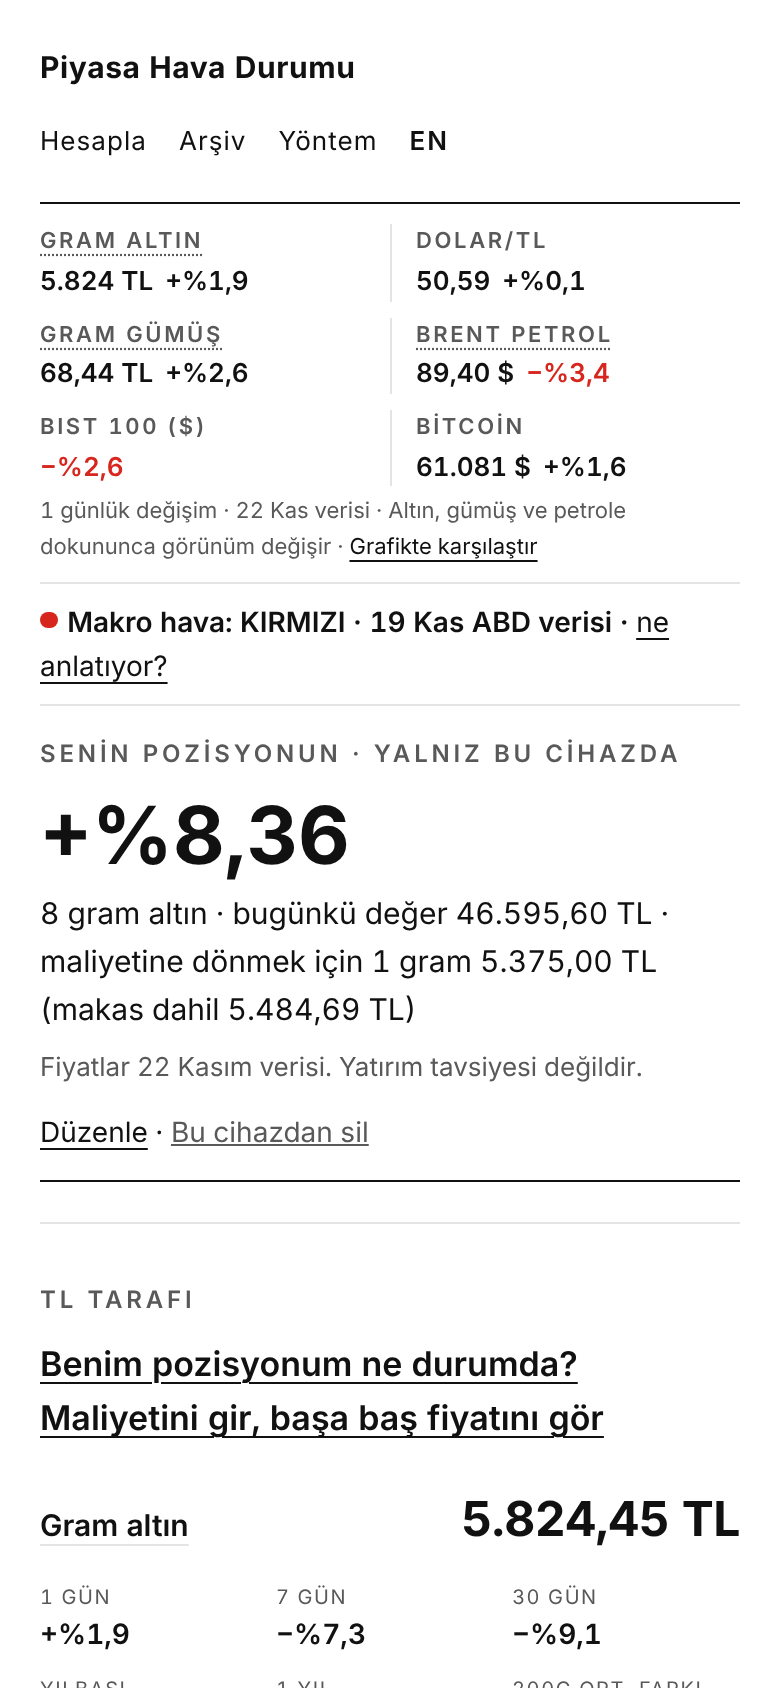
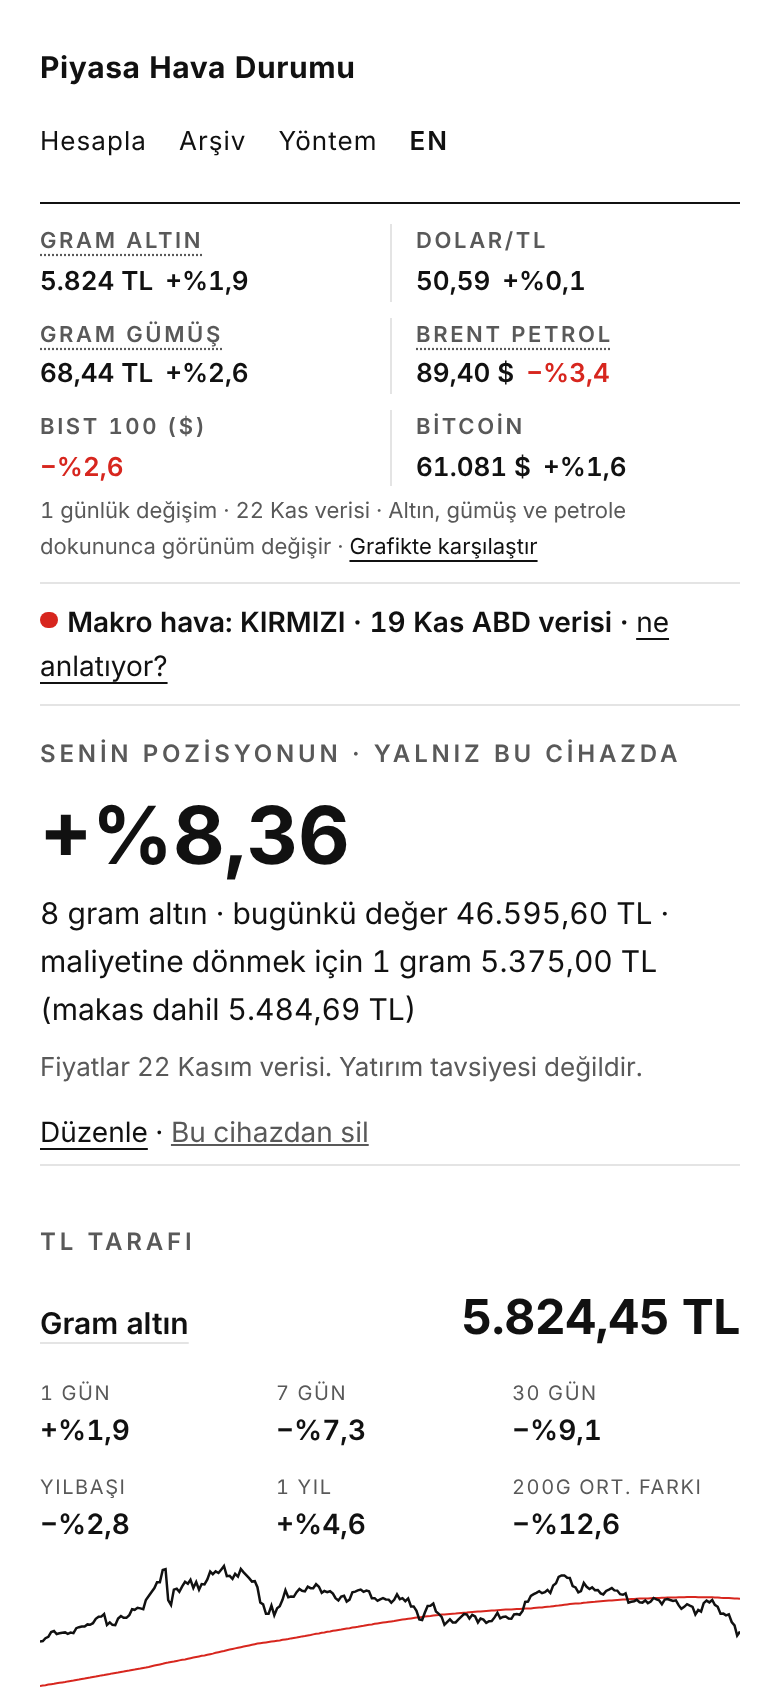
Position card shows when a user-entered price was set; refreshed preview
Claude-Session: https://claude.ai/code/session_01HYDefgn5NWFqFd8ndNssHq

diff --git a/piyasa/pozisyon.js b/piyasa/pozisyon.js
@@ -77,7 +77,10 @@
       line += L(" · maliyetine dönmek için BIST 100 ", " · breakeven BIST 100 ") + num(r.breakeven, 0) + L(" puan", " points");
     }
     host.appendChild(el("p", "poz-line", line));
-    var when = a === "diger" ? L("Bugünkü fiyatı sen girdin; değiştiyse hesaplayıcıda güncelle.", "You entered today's price; update it in the calculator if it changed.")
+    var entered = /^\d{4}-\d{2}-\d{2}$/.test(String(saved.t || "")) ? day(saved.t) : "";
+    var when = a === "diger" ? (entered
+        ? L("Fiyatı " + entered + " tarihinde sen girdin; değiştiyse hesaplayıcıda güncelle.", "You entered the price on " + entered + "; update it in the calculator if it changed.")
+        : L("Bugünkü fiyatı sen girdin; değiştiyse hesaplayıcıda güncelle.", "You entered today's price; update it in the calculator if it changed."))
       : L("Fiyatlar ", "Prices: data of ") + day((ga && ga.asof) || P.usdtry_asof) + L(" verisi. Yatırım tavsiyesi değildir.", ". Not investment advice.");
     host.appendChild(el("p", "mute small", when));
     var act = el("p", "poz-act");

diff --git a/piyasa/hesapla.js b/piyasa/hesapla.js
@@ -64,7 +64,8 @@
       if ($("hatirla").checked) {
         localStorage.setItem(KEY, JSON.stringify({ v: 2, a: $("varlik").value, c: ccy(), m: nOrNull($("maliyet").value), q: nOrNull($("miktar").value),
           s: nOrNull($("makas").value), on: $("ozel-ad").value, cp: nOrNull($("ozel-fiyat").value),
-          l: lotValues().map(function (r) { return [nOrNull(r[0]), nOrNull(r[1])]; }) }));
+          l: lotValues().map(function (r) { return [nOrNull(r[0]), nOrNull(r[1])]; }),
+          t: new Date().toISOString().slice(0, 10) }));
       } else {
         localStorage.removeItem(KEY);
       }

diff --git a/docs/SITE_ROADMAP.md b/docs/SITE_ROADMAP.md
@@ -367,3 +367,4 @@ veri) yayımlanır; puanlama kodu (`tools/`), ham girdiler (`data/derivs`,
 - **2026-11-22 (Boran ile canlı, 11.)** — İkinci dış değerlendirmeden (Opus + Sonnet, ikisi 6,5/10): (1) hesaplayıcıya isteğe bağlı "Makas / komisyon (%)" + "fiyatlardan hesapla" (satış/alış → %); sonuçta bozdurunca eline geçen, makas sonrası kâr/zarar, makas dahil başa baş fiyatı (testli). Referans: TCMB dolar efektif alış-satış farkı + kur tarihi (`fetch_tl.parse_tcmb`, today.xml, DTD reddedilir, hata olursa önceki değer korunur; testli) — altın/gümüş için serbest günlük makas verisi yok, sayfada yazıyor. (2) Bant tarihi: gram altının çubuğu bugünse saat, değilse "20 Kas kapanışı" (dolar hafta sonu kotasyonu "canlı" izlenimi veriyordu). (3) Bandın altında tek satır "Makro hava: KIRMIZI · 19 Kas ABD verisi · ne anlatıyor?". (4) Dar ekranda logo tek satır, menü alt satırda; gri metin #595959, etiketler 12 px. (5) Başlıklar: `dil` alanı, ana sayfa yan sütunu yalnız en/tr; ekonomi akışlarında piyango başlıkları ayıklanır (`exclude_words`); boş kimlikli EIA bağlantısı guid'den tamamlanır, tamamlanamazsa atlanır (testli). Bekleyen: TÜFE'ye göre reel getiri (EVDS anahtarı gerekir), KIRMIZI kelimesi (Boran düşünüyor).
 - **2026-11-23 (Boran ile canlı, 12.)** — Veri kaynakları araştırıldı → `docs/VERI_KAYNAKLARI.md`. Karar (Boran): ücretsiz ve doğru kaynağı olan geçer, olmayan Yahoo'dan devam; gelir modeli ya da uyarı gelirse yeniden. Bugün hiçbir veri birebir değiştirilmedi: TCMB günde bir kez (gün içi gram altını bozar), EIA petrol haftalık gecikmeli; TCMB yalnız makas referansında. Üçüncü dış değerlendirme (ikisi yine 6,5/10) düzeltmeleri: hesaplayıcıda tek fiyat tarihi (gram altın kapanışı; hafta sonu dolar kotasyonu "22 Kasım" gösteriyordu), Türkçe binlik ayırıcı okunuyor ("5.800" → 5800; önce 5,8 sayılıyordu), makas örnekleri bugünkü fiyatın ±%1'i, sonuçta "yatırım tavsiyesi değildir" satırı, tutarlar tek satırda.
 - **2026-11-23 (Boran ile canlı, 13.)** — Hesaplayıcı merkezde (Boran onayı): (1) ana sayfada "Senin pozisyonun · yalnız bu cihazda" kartı (`pozisyon.js`; yalnız "Bu cihazda hatırla" işaretliyse; güncel fiyatla K/Z, başa baş, makas dahil başa baş; "Düzenle" / "Bu cihazdan sil"); (2) "Farklı fiyatlardan birden çok alım" — en çok 20 satır, ağırlıklı ortalama maliyet ve toplam miktar alanlara yazılır (BIST'te gizli: miktar alanı TL tutarı); (3) "Diğer: çeyrek, cumhuriyet, bilezik… (fiyatı sen gir)" — gramdan türetilmez, bugünkü bozdurma fiyatını kullanıcı yazar; (4) kayıt v2: sayılar dilden bağımsız saklanır (TR'de kaydedilen değer EN'de doğru okunur; v1 kayıtlar okunmaya devam eder); (5) bant/hesaplayıcı/kartta "kapanışı" yerine "verisi" (vadeli altın pazar akşamı açılıyor; "kapanış" değil). Testler: `averageLots`, özel varlık. Bekleyen: TÜFE'ye göre reel getiri (EVDS anahtarı, Boran).
+- **2026-11-23 (Boran ile canlı, 14.)** — Dördüncü dış değerlendirme (Sonnet 7/10, Opus 6,5/10). Düzeltilen: "Diğer" varlıkta kart, fiyatın girildiği tarihi gösterir (kayıtta `t`); ana sayfa önizlemesi yenilendi (kart varken üstteki hesaplayıcı bağlantısı gizli, çift çizgi yok — eleştiri eski görüntüdendi). Haftalık "EVDS anahtarı hatırlatması" zamanlanmış görevi kuruldu (pazartesi 10:35 İstanbul). Açık öneriler (Boran kararı): birden çok pozisyon (altın + dolar + çeyrek toplamı), makro hava satırını kartın altına/ayrı sayfaya almak, kayıt dışa/içe aktarma, alan adı ve "gram altın maliyet hesaplama" arama sayfası.
